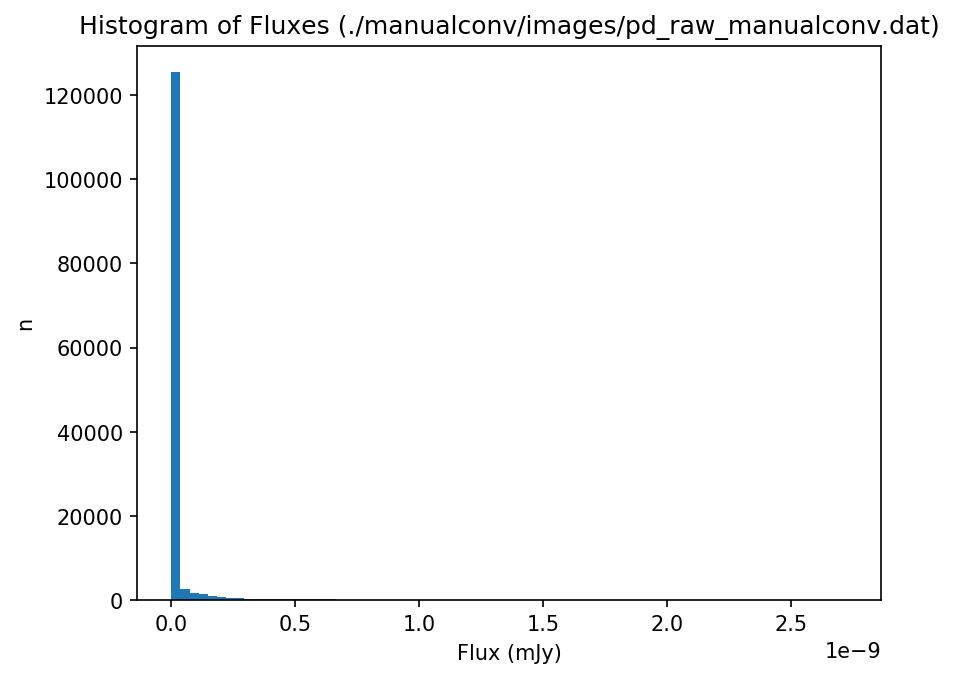
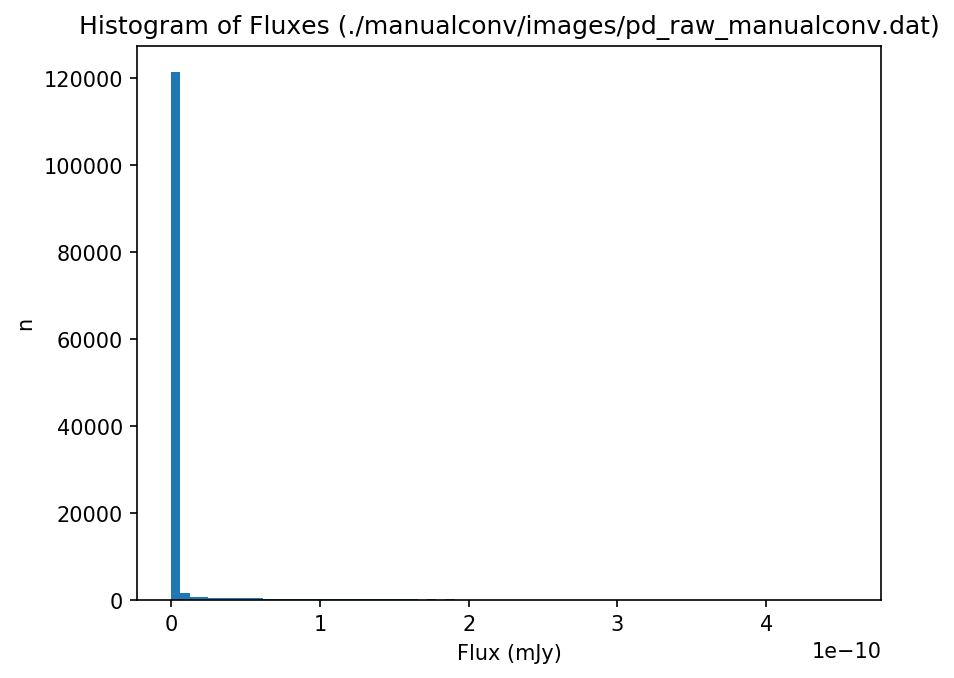
flux histograms 0.5 sigma from zero

diff --git a/output/flux_hist.py b/output/flux_hist.py
@@ -24,7 +24,7 @@ ax = fig.add_subplot(111)
 
 nonzero = image_data[image_data != 0.0]
 
-ax.hist(nonzero, bins=np.linspace(0, 3.*np.std(nonzero), 75))
+ax.hist(nonzero, bins=np.linspace(0, 0.5*np.std(nonzero), 75))
 ax.set_xlabel('Flux (mJy)')
 ax.set_ylabel('n')
 plt.title('Histogram of Fluxes ({})'.format(args.filename))
